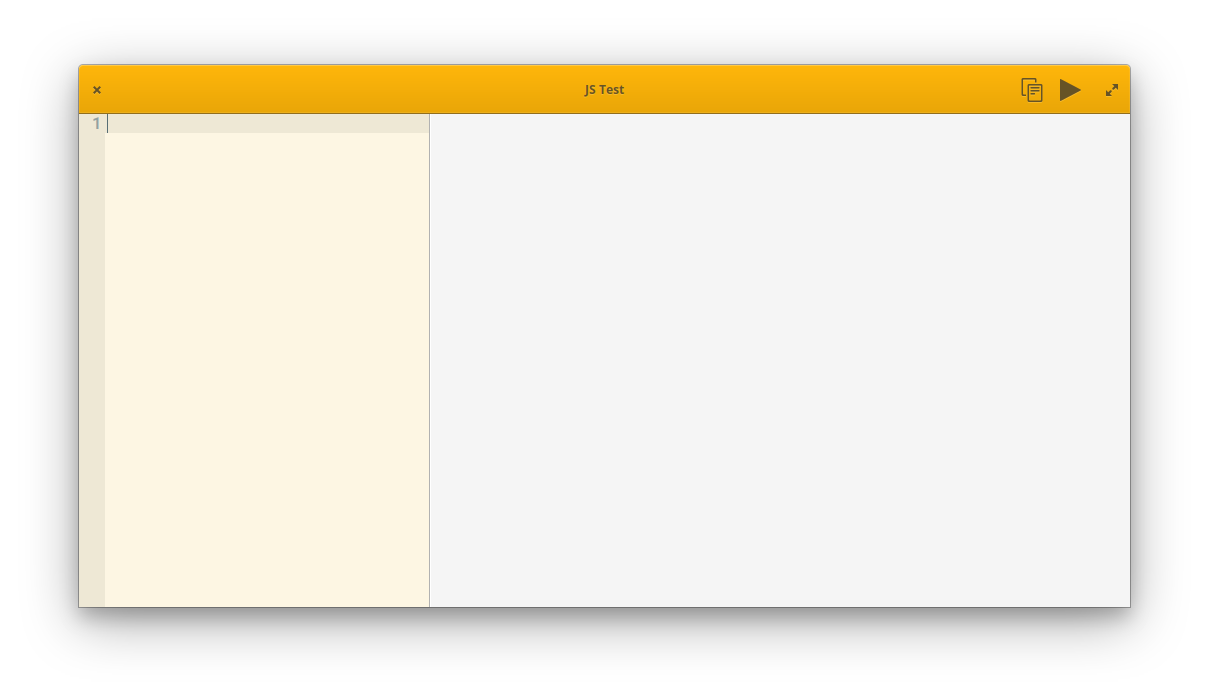
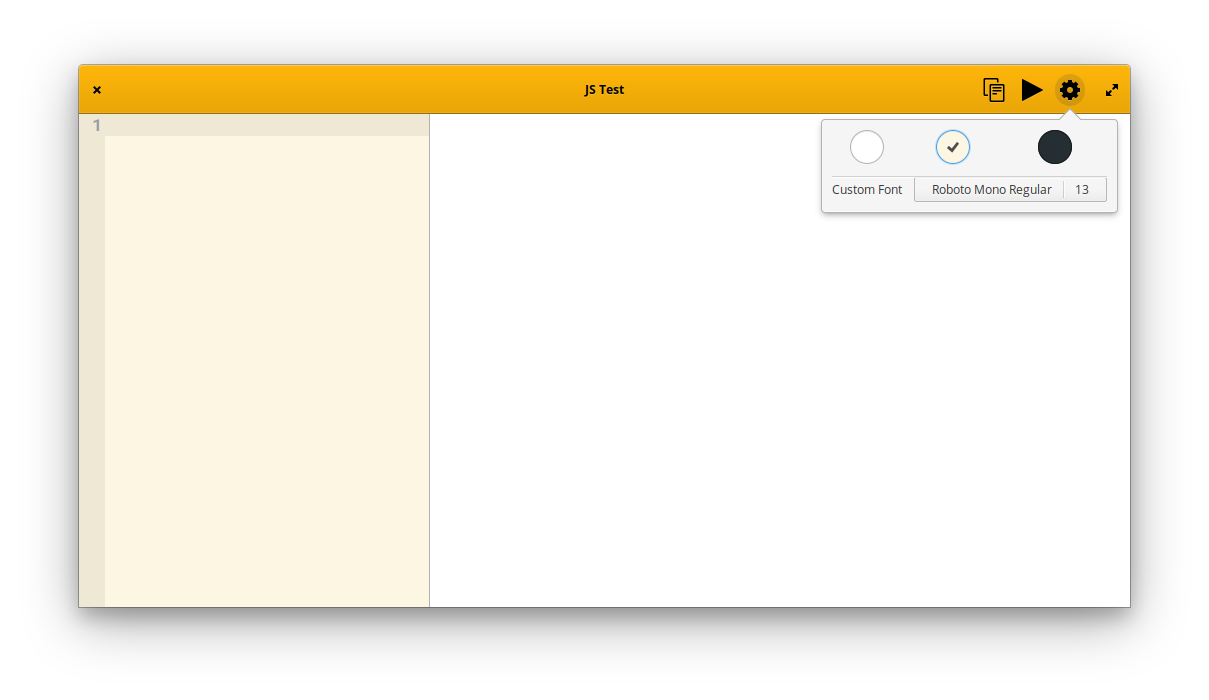
Added the white screenshots and data to show them

Changed region(s): [[0.6733, 0.18, 0.9181, 0.33], [0.7957, 0.09, 0.9181, 0.15], [0.4897, 0.12, 0.5203, 0.15]]

diff --git a/README.md b/README.md
@@ -5,10 +5,10 @@
 
 ### Screenshots
 
-| **Light** | **Dark** |
-| -------- | --------- |
-| ![JSTestScreenshot](https://github.com/Timecraft/JS_Test/blob/master/data/images/com.github.timecraft.js-test.mainwindow.light.png) | ![JSTestScreenshot](https://github.com/Timecraft/JS_Test/blob/master/data/images/com.github.timecraft.js-test.mainwindow.dark.png)
-| ![JSTestScreenshot](https://github.com/Timecraft/JS_Test/blob/master/data/images/com.github.timecraft.js-test.sample.light.png) | ![JSTestScreenshot](https://github.com/Timecraft/JS_Test/blob/master/data/images/com.github.timecraft.js-test.sample.dark.png)
+| **White** | **Light** | **Dark** |
+| -------- | -------- | --------- |
+|![JSTestScreenshot](https://github.com/Timecraft/JS_Test/blob/master/data/images/com.github.timecraft.js-test.mainwindow.white.png)| ![JSTestScreenshot](https://github.com/Timecraft/JS_Test/blob/master/data/images/com.github.timecraft.js-test.mainwindow.light.png) | ![JSTestScreenshot](https://github.com/Timecraft/JS_Test/blob/master/data/images/com.github.timecraft.js-test.mainwindow.dark.png) 
+|![JSTestScreenshot](https://github.com/Timecraft/JS_Test/blob/master/data/images/com.github.timecraft.js-test.sample.white.png)| | ![JSTestScreenshot](https://github.com/Timecraft/JS_Test/blob/master/data/images/com.github.timecraft.js-test.sample.light.png) | ![JSTestScreenshot](https://github.com/Timecraft/JS_Test/blob/master/data/images/com.github.timecraft.js-test.sample.dark.png)
 
 <br/>
 <br/>
